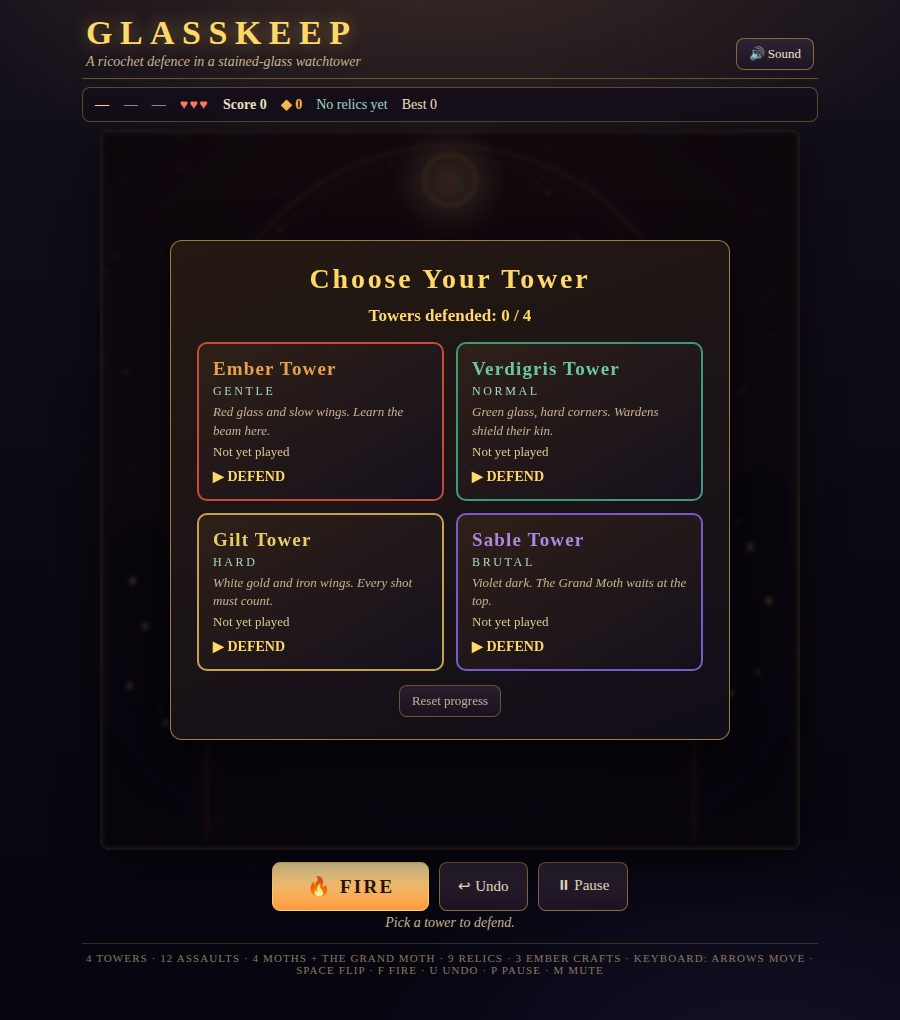
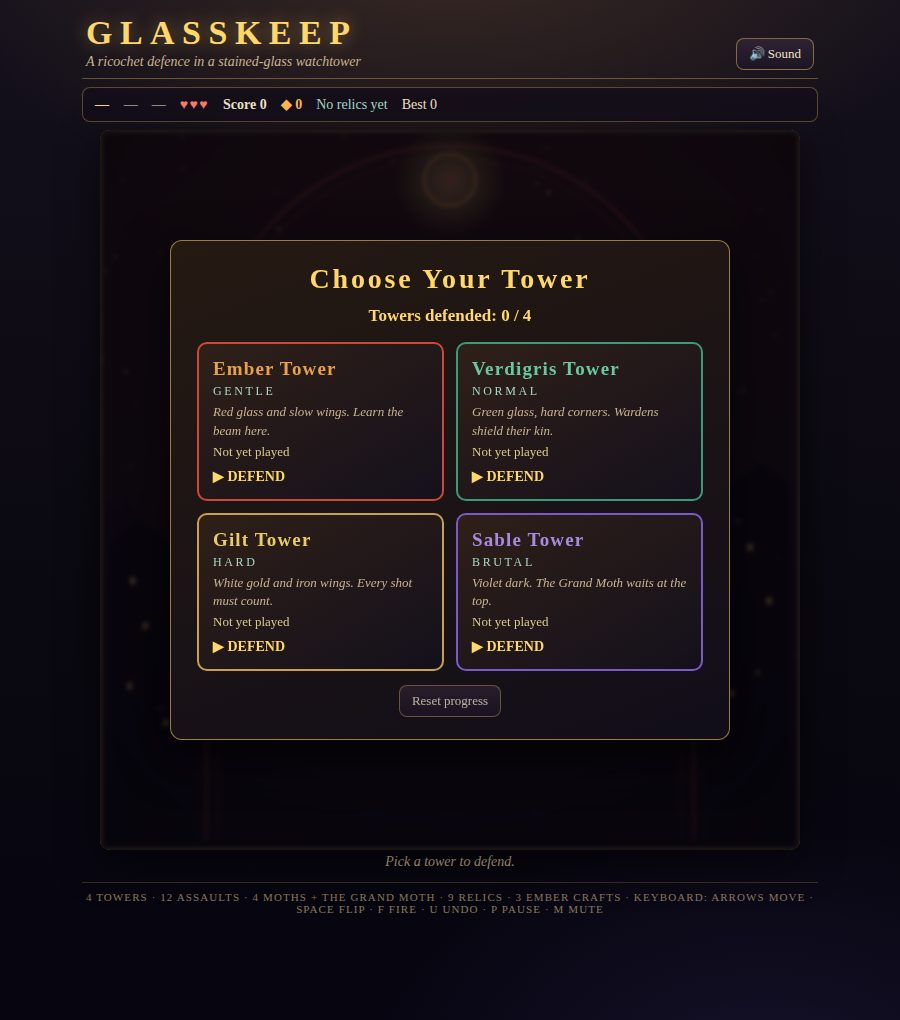
Glasskeep v2.1 polish: bound reflection scoring, clean screenshot-facing UI
Fix 1 (both evaluators' #1): reflection bonuses bank only when the beam
actually hurts something that shot (damageDealt > 0) — a harmless pass or
a shield-only hit banks nothing, so the stalled-moth farm is dead. Report
carries reflectionBonus; the float text shows only when a bonus was paid.
Scoring comment in content.js states the rule (flows into the dossier).

Fix 2 (both evaluators' #2): FIRE/Undo/Pause bar visible on play and pause
only (syncControls at every screen transition); campaign-win HUD shows the
campaign total (Score 5325, matching the panel); tower-win HUD refreshed
after the end bonus; craft/draft HUD names the upcoming assault with turn
'—'; boss banner on a dark backing plate, holding full opacity 800ms
before fading (total 1400ms unchanged).

QA: 35/35 unit tests (2 new regression tests); all four towers S
(1040/1165/1380/1740); campaign 5325 S x2 identical; Sable v2-route
replay 1785 S with 3/3 hearts; controls 10/10; UI checks 22/22; all 6
screenshots re-captured and viewed; build verified (dossier 489,124
bytes, text 106,538 of 163,840).

diff --git a/game/main.js b/game/main.js
@@ -105,11 +105,19 @@ function refresh() {
   ui.showBossBar(livingBoss(state.moths));
 }
 
+/** The FIRE/Undo/Pause bar belongs to gameplay (and pause) only: on every
+ *  other screen those buttons do nothing, so the bar is hidden there.
+ *  Called at every screen transition. */
+function syncControls() {
+  ui.setControlsVisible(screen === 'play' || screen === 'pause');
+}
+
 // ---------------------------------------------------------------- screens
 
 function showStart() {
   screen = 'start';
   state = null;
+  syncControls();
   ui.showOverlay('startOverlay');
   const best = save.campaignBest > 0 ? `Best campaign: ${save.campaignBest}${save.campaignGrade ? ` (grade ${save.campaignGrade})` : ''}` : 'No campaign yet — defend all four towers.';
   ui.el('startBest').textContent = best;
@@ -118,6 +126,7 @@ function showStart() {
 function showMap() {
   screen = 'map';
   state = null;
+  syncControls();
   ui.renderMap(mapRows(campaign), towersDefended(campaign), startTower, resetProgress);
   ui.showOverlay('mapOverlay');
   ui.setHint('Pick a tower to defend.');
@@ -145,6 +154,7 @@ function nextTower() {
 function startTower(towerId) {
   tower = towerById(towerId);
   screen = 'intro';
+  syncControls();
   const foes = [...new Set(tower.assaults.flatMap((a) => [...a.moths, a.boss].filter(Boolean)))]
     .map((t) => (t === 'guardian' ? tower.assaults[2].bossName : t === 'grand' ? 'The Grand Moth' : t[0].toUpperCase() + t.slice(1) + ' Moth'))
     .join(' · ');
@@ -156,6 +166,7 @@ function startTower(towerId) {
 function beginRun() {
   state = newRun(tower);
   screen = 'play';
+  syncControls();
   ui.hideOverlays();
   particles = new Particles();
   beamAnim = null;
@@ -221,9 +232,9 @@ function fire() {
   } else {
     audio.playFire();
   }
-  if (report.reflections > 0) {
+  if (report.reflectionBonus > 0) {
     const p = cellCentre(state.board.emitterCol, 5);
-    particles.floatText(p.x, p.y, `+${report.reflections * 5} reflections`);
+    particles.floatText(p.x, p.y, `+${report.reflectionBonus} reflections`);
   }
   if (report.chainKills >= 2) {
     banner = { text: `CHAIN ×${report.chainKills + 1}!`, at: performance.now() };
@@ -270,8 +281,10 @@ function assaultWon() {
   }
   state.craftsBought = [];
   screen = 'craft';
+  syncControls();
   ui.renderCraft(state, buyCraftChoice, craftDone);
   ui.showOverlay('craftOverlay');
+  ui.setHudBetweenAssaults(state.assaultIndex + 1);
   ui.setHint('Spend Embers on crafts — or press Done to keep them (they convert to score).');
 }
 
@@ -288,9 +301,11 @@ function buyCraftChoice(craftId) {
 /** Done crafting: on to the relic draft. */
 function craftDone() {
   screen = 'draft';
+  syncControls();
   draftOffers = draftOffer(tower, state.assaultIndex, state.relics);
   ui.renderDraft(draftOffers, draftPick);
   ui.showOverlay('draftOverlay');
+  ui.setHudBetweenAssaults(state.assaultIndex + 1);
   ui.setHint('Choose a relic — it stays with you for the rest of this tower.');
   audio.playClick();
 }
@@ -303,6 +318,7 @@ function draftPick(relicId) {
     audio.playDraft();
   }
   screen = 'play';
+  syncControls();
   ui.hideOverlays();
   startAssault(state.assaultIndex + 1);
 }
@@ -313,6 +329,7 @@ function draftPick(relicId) {
 function towerWon() {
   const bonus = towerEndBonus(state);
   state.score += bonus;
+  refresh(); // the HUD must show the final score (bonus included), not the stale pre-bonus one
   const grade = gradeFor(tower, gradeScore(state));
   recordTower(save, tower.id, state.score, grade, true);
   storeSave(save);
@@ -323,6 +340,7 @@ function towerWon() {
     return;
   }
   screen = 'towerWin';
+  syncControls();
   ui.renderTowerWin({
     tower, grade, score: state.score, kills: state.kills, turn: state.turn,
     hearts: state.hearts, embersEarned: state.embersEarned, embersSpent: state.embersSpent,
@@ -339,6 +357,8 @@ function campaignWon() {
   recordCampaign(save, total, grade);
   storeSave(save);
   screen = 'campaignWin';
+  syncControls();
+  ui.showCampaignHUD(total); // the HUD shows the campaign total, matching the victory panel
   ui.renderCampaignWin({
     grade, total,
     rows: TOWERS.map((t) => ({
@@ -372,6 +392,7 @@ function defeat() {
   ];
   const tip = tips[(tower.seed + state.assaultIndex) % tips.length];
   screen = 'defeat';
+  syncControls();
   ui.renderDefeat({
     tower, assaultIndex: state.assaultIndex, score: state.score, kills: state.kills, turn: state.turn, tip,
   }, beginRun, showMap);
@@ -384,10 +405,12 @@ function defeat() {
 function togglePause() {
   if (screen === 'play') {
     screen = 'pause';
+    syncControls();
     ui.showOverlay('pauseOverlay');
     audio.playClick();
   } else if (screen === 'pause') {
     screen = 'play';
+    syncControls();
     ui.hideOverlays();
     audio.playClick();
   }

diff --git a/game/ui.js b/game/ui.js
@@ -21,6 +21,12 @@ export function showOverlay(id) {
   el(id).classList.remove('hidden');
 }
 
+/** Show or hide the FIRE/Undo/Pause bar: gameplay and pause only. On every
+ *  other screen those buttons do nothing, so the bar is hidden there. */
+export function setControlsVisible(visible) {
+  el('controls').classList.toggle('hidden', !visible);
+}
+
 /** The hint line under the board. */
 export function setHint(text) {
   el('hint').textContent = text;
@@ -50,6 +56,26 @@ export function updateHUD(state, tower, save) {
     relics.appendChild(span);
   }
   if (state.relics.length === 0) relics.textContent = 'No relics yet';
+}
+
+/** Between assaults (craft and draft screens), the HUD names the UPCOMING
+ *  assault — the run state still holds the finished one — and the turn
+ *  reads '—', since no turn is in progress. The next assault's refresh
+ *  restores the live values. */
+export function setHudBetweenAssaults(nextAssaultIndex) {
+  el('hudAssault').textContent = `Assault ${nextAssaultIndex + 1} / 3`;
+  el('hudTurn').textContent = '—';
+}
+
+/** On the campaign victory screen, the HUD summarises the campaign: the
+ *  final total (matching the victory panel's "Total score"), not the last
+ *  tower's pre-bonus score. Hearts, Embers, relics and best keep the last
+ *  tower's final values. */
+export function showCampaignHUD(total) {
+  el('hudTower').textContent = 'Campaign';
+  el('hudAssault').textContent = '4 / 4 defended';
+  el('hudTurn').textContent = '—';
+  el('hudScore').textContent = `Score ${total}`;
 }
 
 /** A relic's glyph and name, from the content data. */

diff --git a/game/render.js b/game/render.js
@@ -224,16 +224,31 @@ export function drawScene(ctx, view) {
   // Particles and floating texts.
   view.particles.draw(ctx);
 
-  // Chain banner: a transient shout when a shot chains kills.
+  // Banner: a transient shout (boss awakening, chain, breach), above the
+  // board. A dark backing plate keeps it legible over the rose window and
+  // the board art; it holds full opacity, then fades in the last stretch
+  // of its 1400 ms life, so the words are always readable while shown.
   if (view.banner && time - view.banner.at < 1400) {
+    const age = time - view.banner.at;
+    const alpha = age < 800 ? 1 : 1 - (age - 800) / 600;
     ctx.save();
-    ctx.globalAlpha = 1 - (time - view.banner.at) / 1400;
+    ctx.globalAlpha = alpha;
     ctx.font = '700 30px Georgia, serif';
     ctx.textAlign = 'center';
+    const bx = CANVAS_W / 2;
+    const by = BOARD.y - 46;
+    const bw = ctx.measureText(view.banner.text).width;
+    ctx.fillStyle = 'rgba(10, 6, 16, 0.82)';
+    ctx.beginPath();
+    ctx.roundRect(bx - bw / 2 - 18, by - 34, bw + 36, 46, 8);
+    ctx.fill();
+    ctx.strokeStyle = 'rgba(255, 233, 168, 0.5)';
+    ctx.lineWidth = 1.5;
+    ctx.stroke();
     ctx.fillStyle = '#ffe9a8';
     ctx.shadowColor = '#c89020';
     ctx.shadowBlur = 14;
-    ctx.fillText(view.banner.text, CANVAS_W / 2, BOARD.y - 46);
+    ctx.fillText(view.banner.text, bx, by);
     ctx.restore();
   }
 }

diff --git a/game/rules.js b/game/rules.js
@@ -148,6 +148,7 @@ export function applyShot(state) {
     path: trace.path, reflections: trace.reflections,
     kills: [], damageDealt: 0, shieldedHits: 0, chainKills: 0,
     score: 0, embers: 0, breached: [], burstEvents: 0,
+    reflectionBonus: 0, // banked only when the beam hurt something (below)
   };
   const living = () => state.moths.filter((m) => m.hp > 0);
   let firstDamagingDone = false;
@@ -208,8 +209,15 @@ export function applyShot(state) {
     }
   }
 
-  // Reflections banked.
-  report.score += trace.reflections * SCORE_PER_REFLECTION;
+  // Reflections bank only when the beam actually hurt something this shot:
+  // a harmless pass — or one that only touches shielded moths — banks
+  // nothing, so parking a moth behind a buttress and firing at it forever
+  // farms no score. (Burst damage only follows a beam kill, so damageDealt
+  // above zero always means the beam itself landed a hit.)
+  if (report.damageDealt > 0) {
+    report.reflectionBonus = trace.reflections * SCORE_PER_REFLECTION;
+    report.score += report.reflectionBonus;
+  }
 
   // Remove the dead, then advance the survivors one tile toward the bottom
   // line. Bottom-first, so a moth never blocks the one behind it: a moth

diff --git a/game/content.js b/game/content.js
@@ -38,8 +38,10 @@ export const ENEMIES = {
           colour: '#b08ae0', wing: '#d0b0f0', desc: 'The final boss. Costs two hearts if it breaks through.' },
 };
 
-/** Scoring: +5 per reflection banked on a shot; +20 per extra kill in one
- *  shot's chain (Silver Thread adds +5 to each chain kill). */
+/** Scoring: +5 per reflection banked on a shot — but only when the beam
+ *  actually hurts something that shot (a harmless pass banks nothing, so
+ *  reflection farming is impossible); +20 per extra kill in one shot's
+ *  chain (Silver Thread adds +5 to each chain kill). */
 export const SCORE_PER_REFLECTION = 5;
 export const SCORE_PER_CHAIN_KILL = 20;
 export const SCORE_PER_UNSPENT_EMBER = 10;
